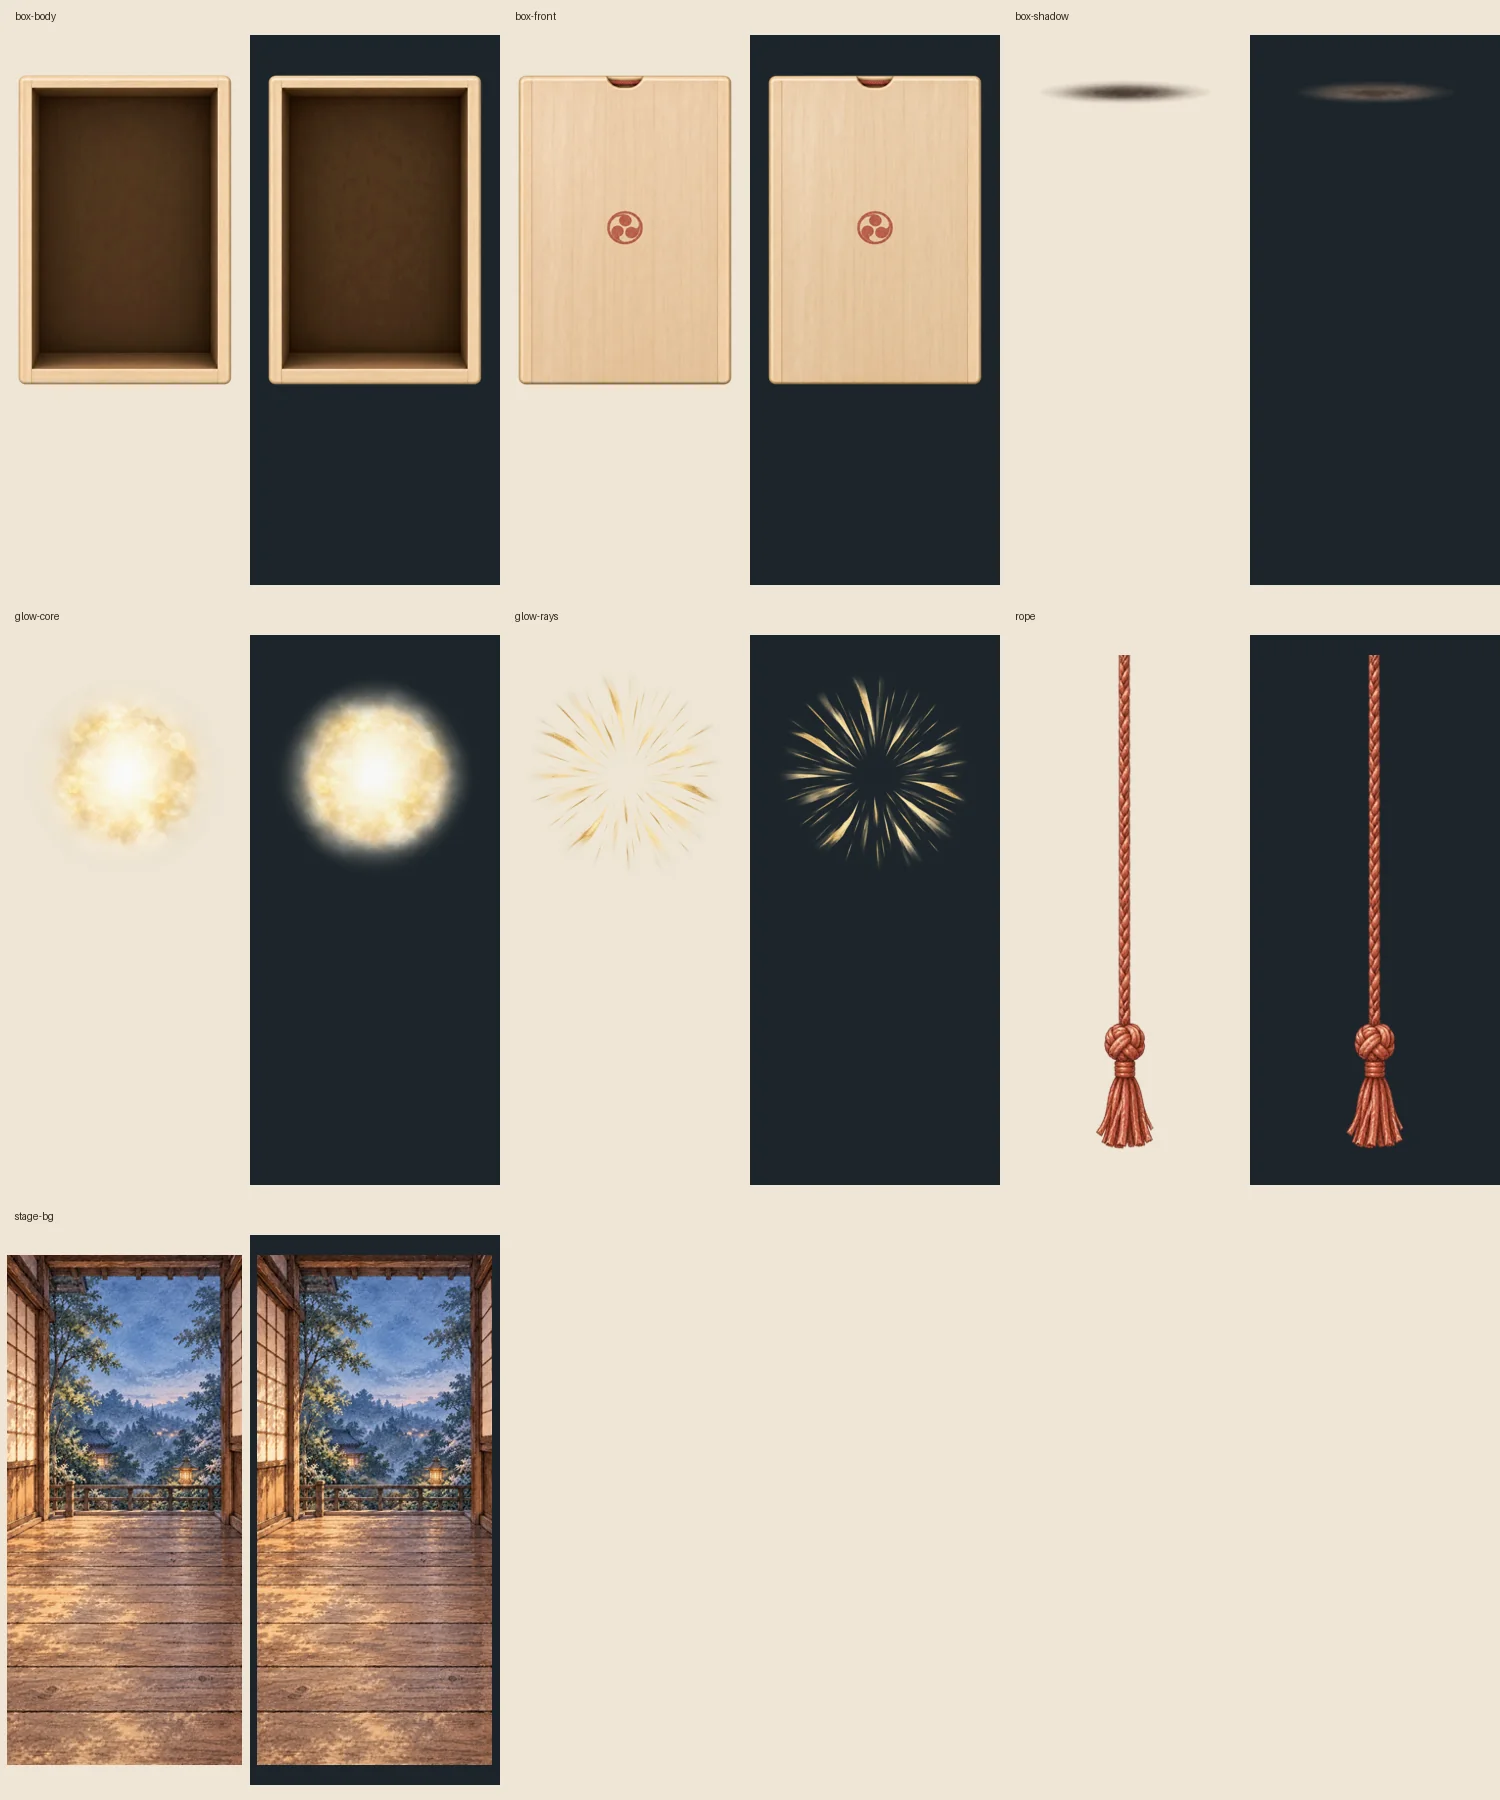
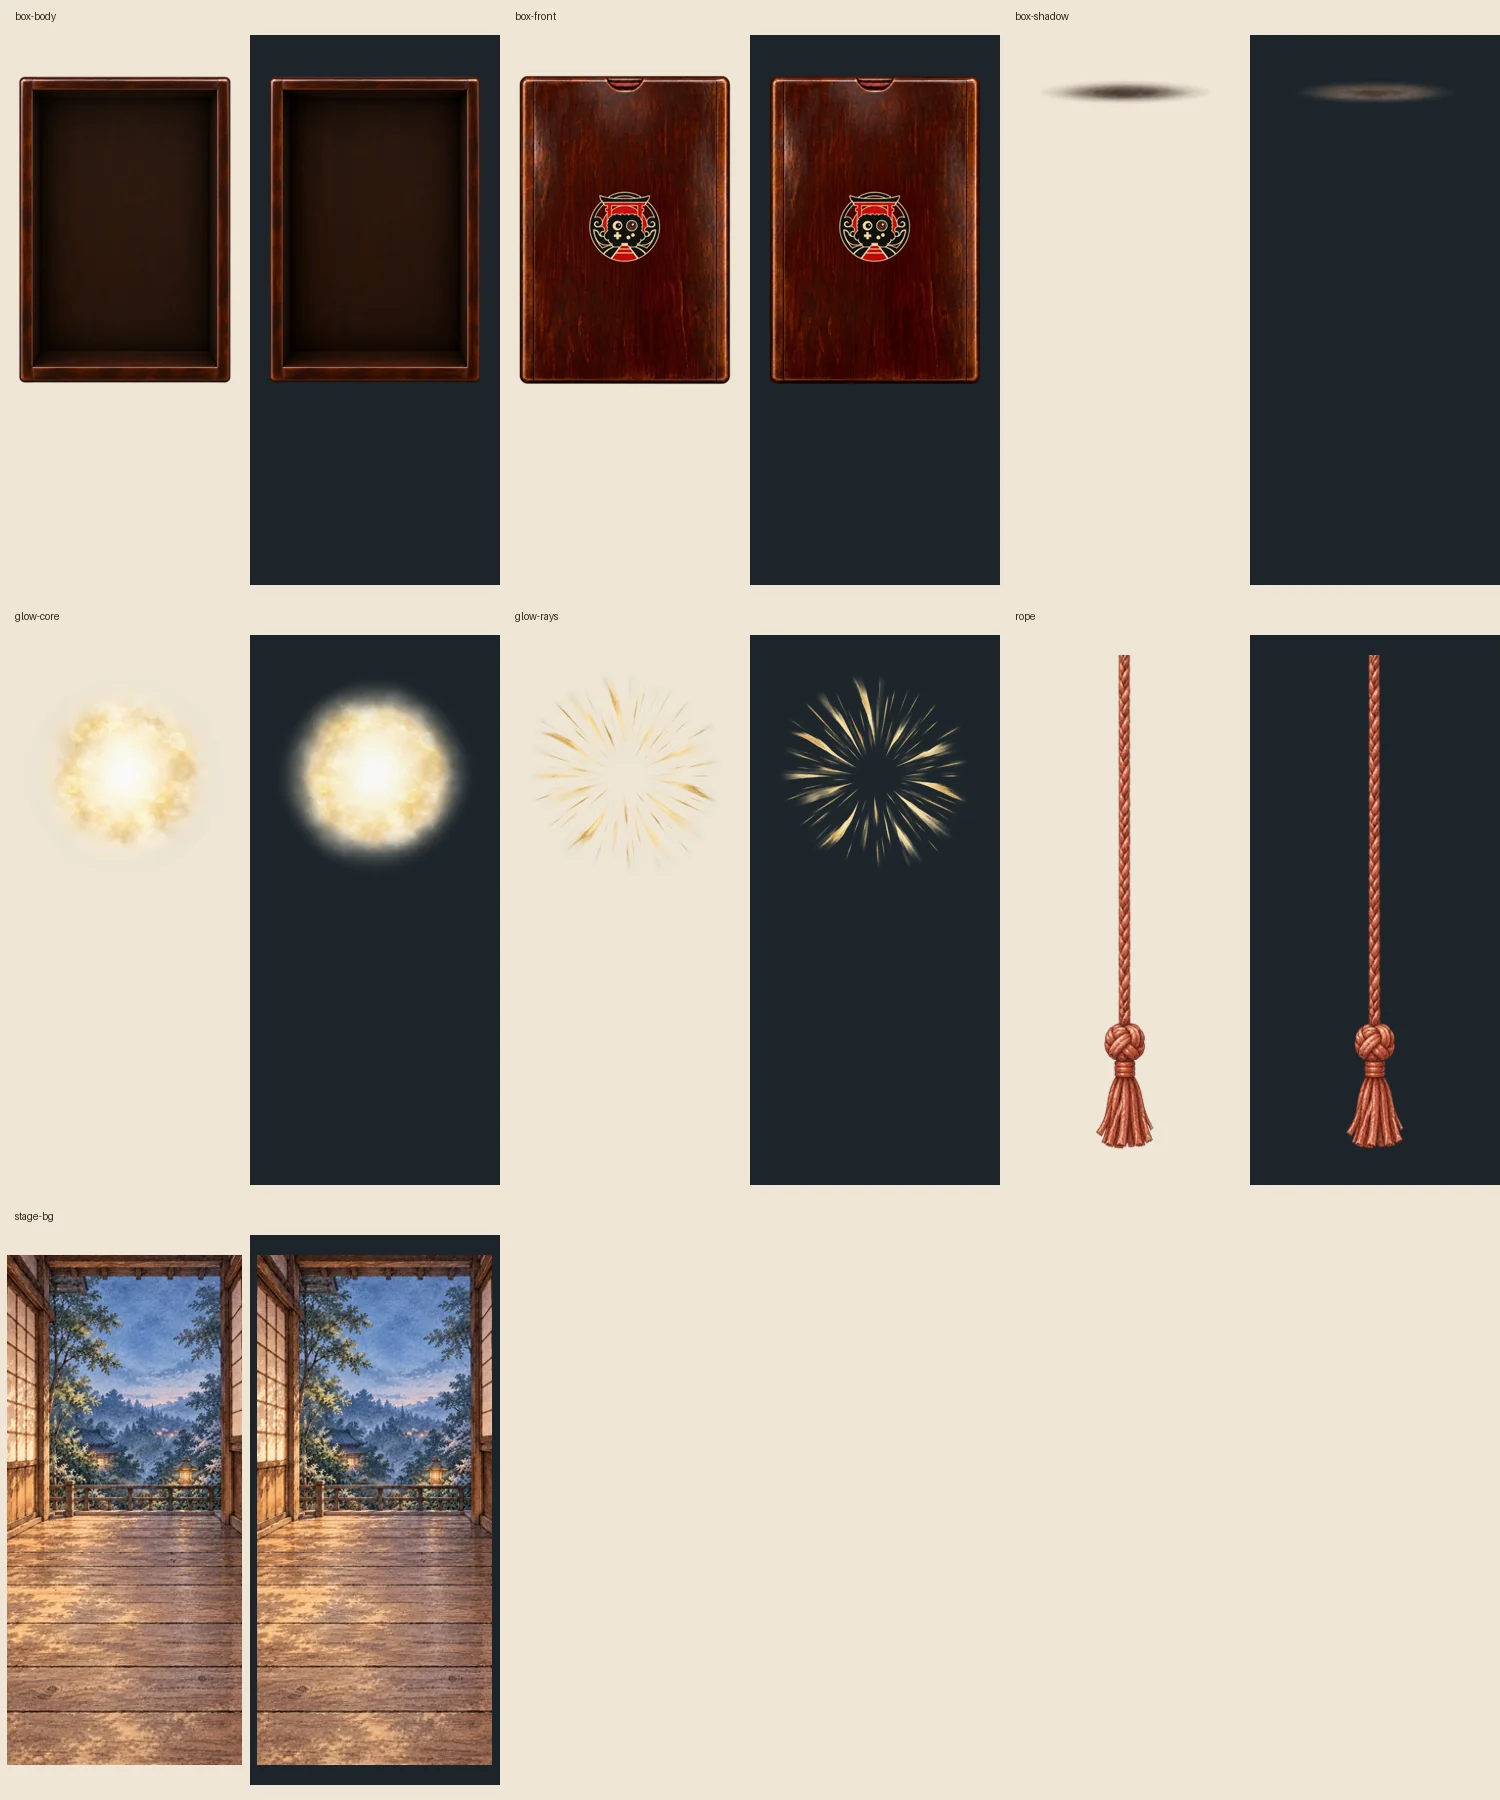
feat(assets): replace gacha box with antique lacquer and app emblem
Replace body and full sliding front with amber-brown urushi finish. Use the existing app emblem as the image edit input for the central logo. Preserve matching 880x1280 geometry and transparent corners; refresh visual and pixel verification.

Files and exact sizes:
- assets/gacha/box-body.webp: 101,380 bytes
- assets/gacha/box-front.webp: 174,438 bytes
- docs/gacha-assets-prompts.md: 43,541 bytes
- docs/gacha-assets-verification/all-assets-review.webp: 116,432 bytes
- docs/gacha-assets-verification/box-closed.webp: 155,568 bytes
- docs/gacha-assets-verification/box-overlay-review.webp: 157,446 bytes
- docs/gacha-assets-verification/box-parts-review.webp: 75,600 bytes
- docs/gacha-assets-verification/pixel-audit.json: 2,482 bytes
- docs/gacha-assets-verification/README.md: 3,122 bytes

Both box assets are under 400,000 bytes. Other five gacha assets and the original logo are unchanged (SHA256 verified). No application code changes.

Changed region(s): [[0.0, 0.0311, 0.6747, 0.2178]]

diff --git a/docs/gacha-assets-prompts.md b/docs/gacha-assets-prompts.md
@@ -9,8 +9,8 @@
 
 |ファイル|寸法|bytes|
 |---|---|---:|
-|`assets/gacha/box-body.webp`|880×1280|58,744|
-|`assets/gacha/box-front.webp`|880×1280|62,440|
+|`assets/gacha/box-body.webp`|880×1280|101,380|
+|`assets/gacha/box-front.webp`|880×1280|174,438|
 |`assets/gacha/box-shadow.webp`|1024×300|23,044|
 |`assets/gacha/glow-core.webp`|1024×1024|200,444|
 |`assets/gacha/glow-rays.webp`|1024×1024|325,054|
@@ -21,7 +21,106 @@
 
 ---
 
-# 箱2点の生成記録
+## 追加依頼: 漆塗りとアプリロゴ（現在の採用版）
+
+# ガチャ木箱の漆塗り素材
+
+2026-09-30に box-body.webp と box-front.webp を差し替えた記録。共通の箱寸法、透明背景、重ね合わせ確認など、元依頼書 docs/codex-gacha-assets.md の要件は引き続き適用する。変更対象はこの2素材と生成・確認記録のみ。コードと他の素材は変更していない。
+
+## 変更内容
+
+- 木箱を明るい桐色から、深い飴色〜黒褐色の拭き漆風に変更。控えめな艶と細かな木目を残し、汚しや傷は抑えた。
+- box-front中央にアプリロゴを配置。ロゴ原本は assets/mobidou-opening-emblem.webp。ImageGenに参照入力として渡して図柄を描画させており、原本の画素を直接貼り付ける方式ではない。鳥居、モビー、輪、巻き雲と元の配色を保つよう指示した。
+- ImageGen出力は各素材を880×1280に正規化。アルファ値1より大きい範囲を切り出し、780×1130にリサイズして、透明な880×1280キャンバスの座標(50,75)へ配置した。形式変換はRGBA WebP quality 90、method 6、alpha_quality 100。
+- box-frontをbox-bodyに重ねた確認画像を制作担当が docs/gacha-assets-verification/box-overlay-review.webp に保存。親担当が box-closed.webp と box-parts-review.webp および明暗背景の all-assets-review.webp を再生成し、隙間なく閉じた箱に見えることを目視確認した。
+
+## 生成元
+
+- box-bodyの編集対象: assets/gacha/box-body.webp（差し替え前）
+- box-frontの編集対象: assets/gacha/box-front.webp（差し替え前）
+- ロゴ参照画像: assets/mobidou-opening-emblem.webp
+- 使用ツール: 組み込みImageGen。透明背景を指定。
+- body最終候補: C:\Users\User\.codex\generated_images\01a0f24d-89b1-78e1-871d-75a6e8d68fb3\exec-ac07b153-76c6-46b1-a349-537f3bb4e9ba.png
+- front最終候補: C:\Users\User\.codex\generated_images\01a0f24d-89b1-78e1-871d-75a6e8d68fb3\exec-43ce8d13-93b1-405c-a65d-60872afdb3bf.png
+
+## ImageGenへ送ったプロンプト
+
+以下は実際の指示文。frontの後半2回はロゴサイズの調整で、最後の出力を採用した。
+
+### box-body.webp
+
+~~~text
+Use case: precise-object-edit
+Asset type: transparent layered mobile-game gacha animation asset, box-body.webp
+Input images: Image 1 is the edit target. Preserve its exact front-facing portrait box silhouette, alignment, proportions, transparent canvas, and visible bounds; change only the material and finish.
+Primary request: transform this open-front Japanese wooden box body into an old-fashioned lacquered box body. Keep the open cavity and all structural geometry from Image 1.
+Subject: an empty, front-facing tall rectangular box body, open at the front, viewed perfectly straight-on. The narrow top, left, right, and bottom rails frame a deep empty cavity. Match the source proportions and outer silhouette exactly so a separate matching full-face sliding panel can cover it.
+Style/medium: refined Japanese traditional product illustration, believable hand-applied fuki-urushi lacquer on aged wood, restrained natural wood grain beneath lacquer, crafted antique household object.
+Composition/framing: isolated object centered on a fully transparent alpha canvas. Keep the same complete object silhouette and placement as Image 1, with 880x1280 portrait proportions. Rails remain slender: about 5% of canvas width at sides and 3.5% of canvas height at top and bottom. No camera angle or perspective.
+Lighting/mood: gentle warm studio illumination with soft, narrow lacquer highlights only on the object surface. The cavity remains dark, near-uniform black-brown. No cast shadow or glow outside the object.
+Color palette: deep amber-brown to near-black brown urushi, understated muted warm highlights. The open cavity is dark solid brown-black.
+Materials/textures: smooth aged wiped lacquer with a quiet satin gloss, subtle fine grain, modest age and hand-crafted variation. Keep it dignified and clean, without excessive dirt, cracks, chips, ornament, or distressing.
+Text (verbatim): none.
+Constraints: preserve the original box geometry and alignment; open cavity has no front panel; no objects inside; transparent alpha outside the box; no shadow beyond the object; no other assets.
+Avoid: light paulownia color, pale wood, red/black random decoration, gold ornament, crest, logo, marks, lettering, symbols, checkerboard, background, backdrop, floor, frame, border around the canvas, perspective, extra panels, handles, prominent damage, grime, smoke, glow, watermark.
+~~~
+
+### box-front.webp: 初回の漆塗りとロゴ配置
+
+~~~text
+Use case: compositing
+Asset type: transparent layered mobile-game gacha animation asset, box-front.webp
+Input images: Image 1 is the edit target: preserve its complete front panel silhouette, rounded corners, straight-on alignment, size, and transparent canvas. Image 2 is the exact official Mobidou app emblem, provided as the logo insert reference. Reproduce Image 2 faithfully; do not invent a substitute logo.
+Primary request: transform the light wood sliding front panel into a refined antique Japanese fuki-urushi lacquer panel, then place the exact app emblem from Image 2 at the center of the full panel.
+Subject: one tall rectangular one-piece sliding panel that completely covers the front of the box. The original top-center finger notch and small understated vermilion braided grip detail may remain at the top edge. The old small circular crest on the source panel must be replaced by the supplied app emblem.
+Style/medium: a dignified old Japanese crafted object with hand-applied wiped lacquer, subtly aged wood beneath lacquer, restrained natural wood grain, fine satin-gloss reflections. The emblem should look like a carefully applied traditional inlay or finish on the lacquer, while preserving the exact source artwork and colors.
+Composition/framing: perfectly front-facing, centered, portrait 880x1280 transparent alpha canvas. Match Image 1's outer shape and visible bounds exactly, approximately x=50..830 and y=75..1205 within its canvas. The board occupies the same full area as the separate box body. Center the logo precisely on the board's geometric center (canvas center x=440,y=640). Scale the logo artwork to about 30% of the visible panel width (approximately 234 px wide within the 780 px board). Keep enough detail to recognize the original torii, Mobidou character, circular ring, and cloud-scroll motifs.
+Lighting/mood: gentle warm studio illumination, restrained narrow reflected highlights on lacquer only; no cast shadow or glow outside the board.
+Color palette: deep amber brown through near-black brown lacquer; app emblem keeps its original vermilion red, near-black, and warm antique ivory/gold colors from Image 2.
+Materials/textures: smooth, quiet-gloss wiped lacquer with subtle fine grain, modest wear and handmade character. Clean and dignified, without excessive grime or distress.
+Text (verbatim): none. The app emblem is a pictorial logo, not text.
+Constraints: change only the material finish and central emblem on Image 1; maintain its one-piece full-face sliding panel geometry, outer bounds, top grip/notch, and transparent alpha outside the panel. Use Image 2 as the exact logo insert. Keep logo geometry, color relationships, torii, character face, ring and cloud motifs faithful and intact. No other marks.
+Avoid: generic crest, kamon, replacement symbol, simplified logo, altered character face, changed torii, altered rings or clouds, extra ornament, words, lettering, watermark, light paulownia wood, pale wood, checkerboard, opaque backdrop, background, floor, cast shadow, perspective, multiple boards, extra handles, excessive scratches, chips, dirt, or cracks.
+~~~
+
+### box-front.webp: ロゴ縮小の調整1
+
+~~~text
+Use case: precise-object-edit
+Asset type: transparent layered mobile-game gacha animation asset, box-front.webp
+Input images: Image 1 is the current complete front panel and is the edit target. Image 2 is the exact official app emblem reference. Preserve every part of Image 1 unchanged except the size of the central emblem.
+Primary request: reduce the existing central app emblem to approximately 30% of the visible board width, then center it precisely on the board. It is currently too large, roughly half the board width. Keep it recognizable and faithful to Image 2.
+Subject: the same single dark antique Japanese lacquer sliding board from Image 1, with the same shape, wood grain, finish, highlights, finger notch and top braided grip.
+Composition/framing: retain the exact panel, canvas, alignment and transparent background from Image 1. The emblem must be centered at the board's geometric center and occupy about 30% of its width, leaving clear lacquer visible around it. Preserve full emblem aspect ratio, do not crop it. Use Image 2 as the source for the emblem; keep its torii, Mobidou character, ring, cloud-scroll motifs, and original red, near-black, and antique-ivory/gold colors intact.
+Lighting/mood: unchanged quiet lacquer reflection.
+Materials/textures: unchanged fuki-urushi wood and tasteful applied emblem.
+Text (verbatim): none.
+Constraints: only change emblem scale and any tiny placement adjustment needed to put its center exactly at the center of the board. Do not alter the logo design or color. Do not change the board, grain, highlights, notch, handle, alpha, geometry or silhouette.
+Avoid: large emblem, emblem wider than 35% of the board, off-center mark, generic crest, altered or simplified logo, extra ornament, lettering, watermark, background, checkerboard, cast shadow.
+~~~
+
+### box-front.webp: ロゴ縮小の調整2（採用出力）
+
+~~~text
+Use case: precise-object-edit
+Asset type: transparent layered mobile-game gacha animation asset, box-front.webp
+Input images: Image 1 is the complete current front panel edit target. Image 2 is the exact official app emblem reference.
+Primary request: keep Image 1 unchanged except reduce the central app emblem to a clearly modest small size, exactly about one quarter of the visible panel width (25%, roughly 220 px on the 880px canvas; under 30%). The current emblem is still too large at about 40% of panel width; reduce it to about two-thirds of its current size. Center it precisely on the board.
+Subject: same single antique dark brown Japanese fuki-urushi sliding panel with subtle grain, quiet gloss, and top-center notch with small vermilion braided grip.
+Composition/framing: preserve the current front panel image, silhouette, position, panel texture, highlights, transparent canvas and top grip. Keep the emblem centered on the geometric center of the board. The full emblem must fit, keep its original square aspect ratio and full edge motifs, and leave generous visible lacquer around it.
+Logo fidelity: use the exact artwork in Image 2 as the logo source. Retain its recognizable torii gate, Mobidou character face, circular rings, cloud-scroll ornament, and original vermilion, near-black and antique ivory/gold colors. Do not reinterpret or simplify it.
+Text (verbatim): none.
+Constraints: only change emblem size and any tiny placement adjustment required for precise centering. The logo artwork should occupy 25% of visible board width, no more than 30%. Maintain actual transparency outside the panel.
+Avoid: emblem wider than 30% of board, off-center emblem, generic crest, redesign, extra marks, words, watermark, checkerboard, opaque background, cast shadow, any changes to the board, grain, color, highlights, shape, alpha, notch or grip.
+~~~
+
+## 最終確認
+
+親担当の検査で箱2点は880×1280、RGBA、四隅alpha=0、外接矩形(50,75,830,1205)で一致。body 101,380 bytes、front 174,438 bytes。箱以外5点と元ロゴのSHA256は変更前と一致。ユーザー追加指定の漆仕上げ・中央ロゴが初回の桐色・丸い朱紋に優先する。
+
+---
+
+# 初回の箱2点の生成記録（旧版・履歴）
 
 この記録は `box-body.webp` と `box-front.webp` の生成履歴・元画像・後処理をまとめたものです。採用・不採用を含む実際の生成プロンプトを以下に記録します。
 

diff --git a/docs/gacha-assets-verification/README.md b/docs/gacha-assets-verification/README.md
@@ -11,8 +11,8 @@
 ## 目視
 
 - `box-closed.webp`: 同じ880×1280キャンバスで本体の上に前板をアルファ合成。前板が本体の開口全体を覆い、輪郭に隙間やずれがない閉じた箱として確認。
-- `box-overlay-review.webp`: 本体・前板・合成結果を並べて確認。両素材のアルファ外接矩形は `(50, 75, 830, 1205)` で一致。
-- `all-assets-review.webp`: 明るい生成りと暗い藍灰の背景に各素材を重ね、透過部に市松模様が焼き込まれていないことを確認。絵に文字や数字はない。箱の朱の円形意匠は依頼で指定された装飾。
+- `box-overlay-review.webp`: 漆塗りの箱2枚を重ねた閉じた箱を確認。`box-parts-review.webp` は本体・前板・合成結果を並べた比較画像。両素材のアルファ外接矩形は `(50, 75, 830, 1205)` で一致。
+- `all-assets-review.webp`: 明るい生成りと暗い藍灰の背景に各素材を重ね、透過部に市松模様が焼き込まれていないことを確認。絵に文字や数字はない。前板中央のロゴはユーザーの追加指定で、既存 `assets/mobidou-opening-emblem.webp` を入力に使用。
 - 箱と紐に外部の接地影はない。影は独立した `box-shadow.webp`。本体内側の奥行きの陰影と背景の建築物の陰影は絵の一部。
 - 背景は夜明け前の縁側、左右の障子、遠くの灯りがあり、中央下に空いた床、上部中央に紐用の余白がある。
 
@@ -21,3 +21,9 @@
 `node scripts/audit-image-assets.cjs` を実行。既存の画像参照で未解決は0件。新素材は未組み込みのため未使用一覧に含まれる。このスクリプトにはアルファ・市松模様の検査機能はないため、上記のピクセル検査と目視を追加した。
 
 変更は `assets/gacha/` と生成・確認記録のみ。`src/`、`App.tsx` は変更していない。原本PNGはプロジェクト内に残していない。
+
+## 漆塗りへの差し替え
+
+同日の追加依頼に従い、箱2点を飴色〜黒褐色の古風な漆塗りへ差し替えた。前板中央にはアプリロゴの透明版を画像編集の挿入入力として使用。ロゴ原本のピクセルを直接合成したものではなく、image_genによる編集出力である。鳥居・モビー・輪・巻き雲、朱・黒・金の構成を原本と見比べて目視確認した。
+
+追加指定により、初回依頼の明るい桐色と中央の抽象的な朱の紋を、漆仕上げとアプリロゴに変更。その他の寸法・透過・前板構造・容量の条件は維持。親担当が最終WebPを再検査し、箱以外5素材とロゴ原本のSHA256が作業前と一致することも確認した。
